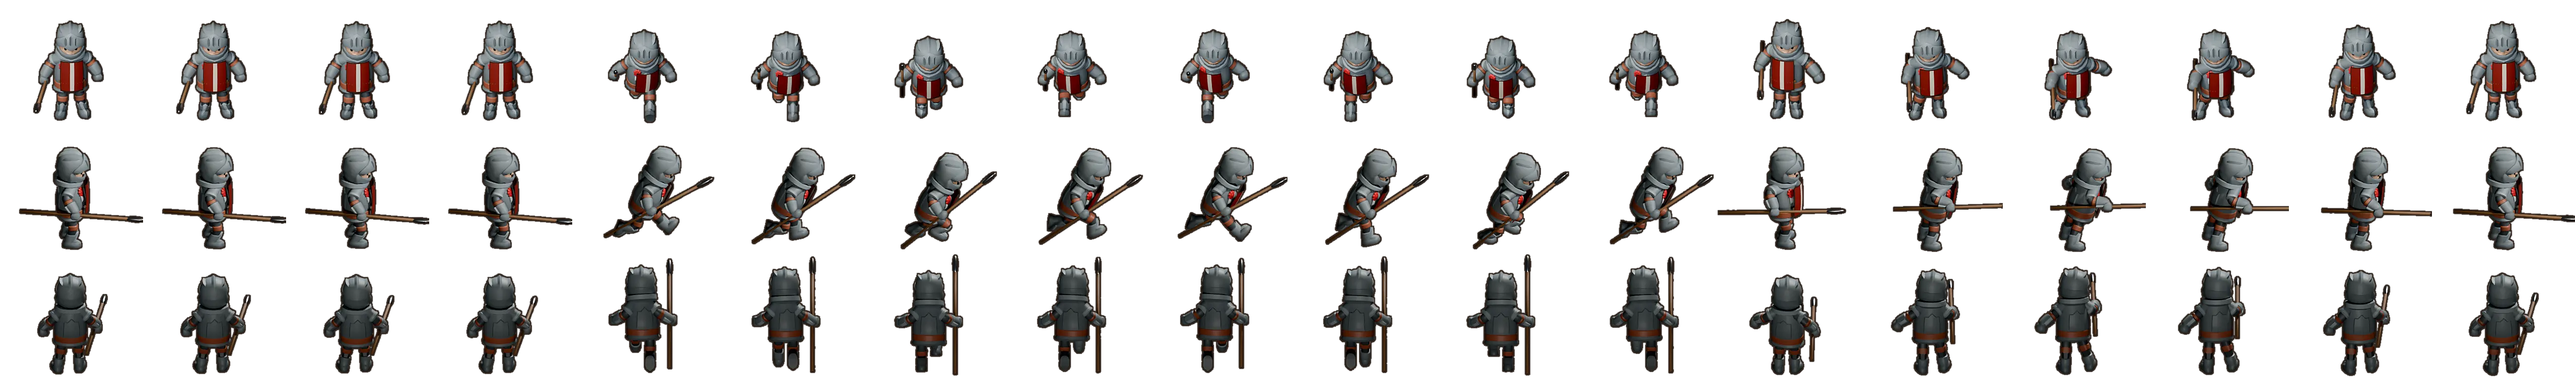
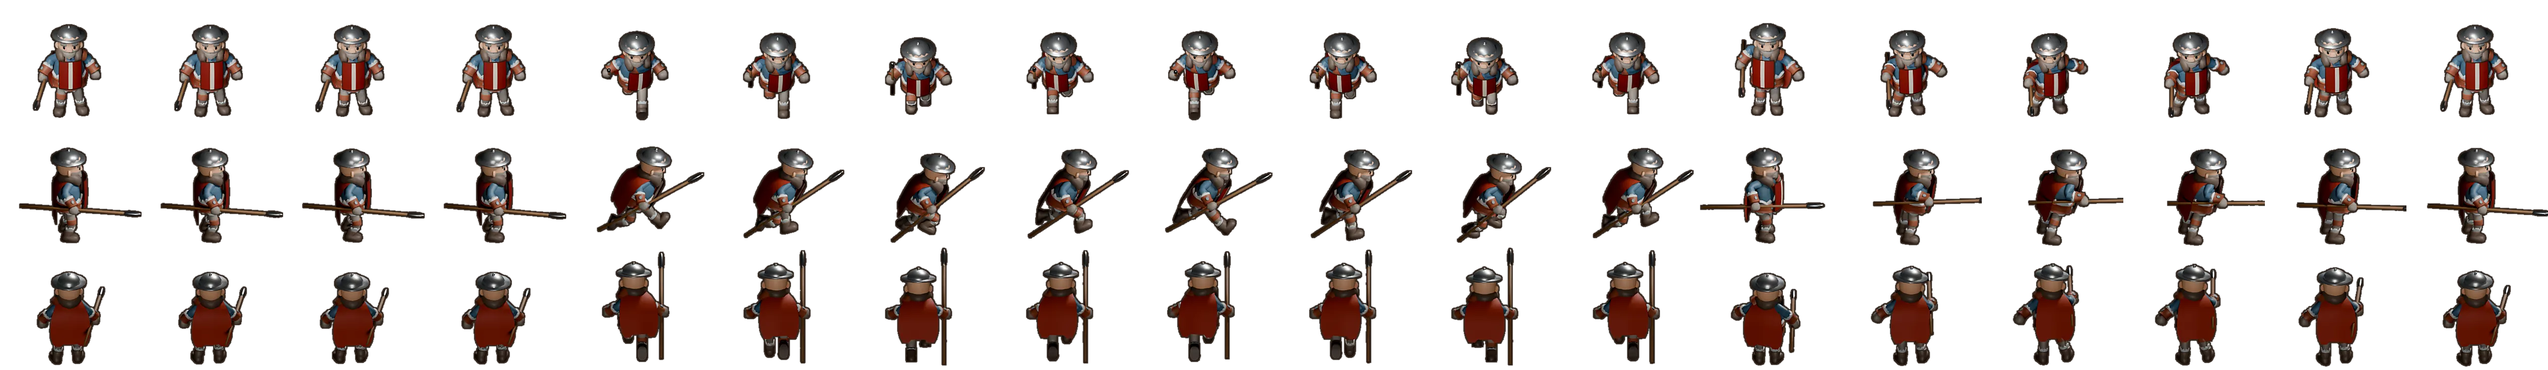
Vojnici odreda: istorijska imena i drugačiji izgled od junaka; manji junak u boju; osvežavanje slika posle izmena
Claude-Session: https://claude.ai/code/session_01MURPTWpuhHHLnsSrrAwjre

diff --git a/index.html b/index.html
@@ -1417,11 +1417,12 @@ HOPT.vuk={tunic:'#e8e0d0',vest:'#8a2a22',trim:'#d9a441',pants:'#3a3a48',boots:'#
 HOPT.mila={tunic:'#f0e8d6',vest:'#2a3a2a',trim:'#c9a24a',pants:'#2a2020',boots:'#5a1a1a',dress:'#f3ead8',apron:'#9a2a22',hat:'marama',hatc:'#efe6d2',weapon:'kandilo',sleeve:'#f0e8d6',skin:'#ecc39e',hair:'#4a2c18'};
 const HDRAW={kovac};for(const k in HOPT)HDRAW[k]=(g,b,lg,t,m)=>figure(g,b,lg,t,m,HOPT[k]);
 /* ---------- 3D likovi (KayKit CC0, Kay Lousberg; prerenderovano u Blenderu) ---------- */
+const A3V="1795539468";
 const H3D={"strahinja": {"f": "strahinja", "w": 301, "h": 315, "cx": 125, "fy": 306, "ph": 240}, "dusan": {"f": "dusan", "w": 296, "h": 315, "cx": 120, "fy": 306, "ph": 245}, "milos": {"f": "milos", "w": 304, "h": 315, "cx": 128, "fy": 306, "ph": 251}};
-const A3D={"stit": {"f": "stit", "w": 249, "h": 260, "cx": 105, "fy": 251, "ph": 197}, "koplja": {"f": "koplja", "w": 284, "h": 252, "cx": 140, "fy": 239, "ph": 197}, "strel": {"f": "strel", "w": 252, "h": 231, "cx": 110, "fy": 219, "ph": 197}};
+const A3D={"stit": {"f": "stit", "w": 233, "h": 252, "cx": 89, "fy": 243, "ph": 182}, "koplja": {"f": "koplja", "w": 281, "h": 245, "cx": 137, "fy": 232, "ph": 182}, "strel": {"f": "strel", "w": 245, "h": 219, "cx": 107, "fy": 207, "ph": 190}};
 const F3D={"osm_pesak": {"f": "osm_pesak", "w": 182, "h": 198, "cx": 70, "fy": 190, "ph": 147}, "biz_pesak": {"f": "biz_pesak", "w": 182, "h": 198, "cx": 70, "fy": 190, "ph": 158}, "osm_koplje": {"f": "osm_koplje", "w": 220, "h": 193, "cx": 108, "fy": 182, "ph": 147}, "osm_strel": {"f": "osm_strel", "w": 192, "h": 176, "cx": 84, "fy": 166, "ph": 147}, "osm_teski": {"f": "osm_teski", "w": 172, "h": 182, "cx": 73, "fy": 160, "ph": 145}, "dah_pesak": {"f": "dah_pesak", "w": 182, "h": 198, "cx": 70, "fy": 190, "ph": 145}, "dah_koplje": {"f": "dah_koplje", "w": 220, "h": 193, "cx": 108, "fy": 182, "ph": 145}, "dah_strel": {"f": "dah_strel", "w": 192, "h": 170, "cx": 84, "fy": 160, "ph": 145}, "dah_teski": {"f": "dah_teski", "w": 172, "h": 173, "cx": 73, "fy": 151, "ph": 126}, "krd_pesak": {"f": "krd_pesak", "w": 182, "h": 198, "cx": 70, "fy": 190, "ph": 145}, "krd_koplje": {"f": "krd_koplje", "w": 220, "h": 193, "cx": 108, "fy": 182, "ph": 145}, "krd_strel": {"f": "krd_strel", "w": 192, "h": 170, "cx": 84, "fy": 160, "ph": 145}, "krd_teski": {"f": "krd_teski", "w": 172, "h": 173, "cx": 73, "fy": 151, "ph": 126}, "biz_koplje": {"f": "biz_koplje", "w": 220, "h": 193, "cx": 108, "fy": 182, "ph": 158}, "biz_strel": {"f": "biz_strel", "w": 192, "h": 185, "cx": 84, "fy": 174, "ph": 158}, "biz_teski": {"f": "biz_teski", "w": 172, "h": 174, "cx": 73, "fy": 153, "ph": 139}, "ugr_pesak": {"f": "ugr_pesak", "w": 182, "h": 198, "cx": 70, "fy": 190, "ph": 153}, "ugr_koplje": {"f": "ugr_koplje", "w": 220, "h": 193, "cx": 108, "fy": 182, "ph": 153}, "ugr_strel": {"f": "ugr_strel", "w": 192, "h": 180, "cx": 84, "fy": 169, "ph": 153}, "ugr_teski": {"f": "ugr_teski", "w": 172, "h": 173, "cx": 73, "fy": 152, "ph": 134}, "bug_pesak": {"f": "bug_pesak", "w": 182, "h": 198, "cx": 70, "fy": 190, "ph": 148}, "bug_koplje": {"f": "bug_koplje", "w": 220, "h": 193, "cx": 108, "fy": 182, "ph": 148}, "bug_strel": {"f": "bug_strel", "w": 192, "h": 172, "cx": 84, "fy": 162, "ph": 148}, "bug_teski": {"f": "bug_teski", "w": 172, "h": 173, "cx": 73, "fy": 151, "ph": 130}};
 const H3D_COL={i:[0,4],m:[4,8],a:[12,6]},H3D_ROW={f:0,s:1,b:2};
-function d3get(o){if(!o)return null;if(!o.img){o.img=new Image();o.img.onload=()=>{o.ok=1};o.img.src='a3d/'+o.f+'.webp'}return o.ok?o:null}
+function d3get(o){if(!o)return null;if(!o.img){o.img=new Image();o.img.onload=()=>{o.ok=1};o.img.src='a3d/'+o.f+'.webp?v='+A3V}return o.ok?o:null}
 function d3pre(){for(const T of[H3D,A3D])for(const k in T)d3get(T[k])}
 function d3preFac(f){if(!f)return;f={tat:'bug',srb:'ugr'}[f]||f;for(const r of['pesak','koplje','strel','teski'])d3get(F3D[f+'_'+r])}
 setTimeout(()=>{d3pre();const fs=[...new Set(Object.values(typeof LFOE!=='undefined'?LFOE:{}).map(x=>x&&x[0]))];
@@ -1435,7 +1436,7 @@ function d3blit(g,o,st,f,vw,face,k){const col=H3D_COL[st][0]+f,row=H3D_ROW[vw];g
  const vw=act&&act.dir?viewOf(act.dir[0],act.dir[1]):act?'s':'f';if(vw!=='s')face=1;else if(act&&act.a>=0&&act.dir&&Math.abs(act.dir[0])>.05)face=act.dir[0]>0?1:-1;
  g.save();g.translate(x,y);g.globalAlpha*=alpha;g.fillStyle='rgba(0,0,0,.45)';ell(g,0,0,(s<1.4?12:10)*s,(s<1.4?4:3.4)*s);g.fill();
  g.scale(s,s);if(act&&act.hurt>0)g.filter='brightness(1.8) saturate(.6)';
- d3blit(g,o,st,f,vw,face,(s<1.4?48:42)/o.ph);g.restore()}}
+ d3blit(g,o,st,f,vw,face,(s<1.4?44:42)/o.ph);g.restore()}}
 const FROLE={senka:'pesak',vampir:'pesak',barjaktar:'pesak',ratnik:'pesak',lovac:'koplje',vrac:'strel',gutac:'teski',vitez:'teski'};
 function foe3d(e){if(e.ally||save.h3d===0||!e.look)return null;if(e._f3!==undefined)return e._f3?d3get(e._f3):null;
  let m=/^R_([a-z]+)_([a-z]+)$/.exec(e.look),fac,type=e.type;if(m){fac=m[1];type=m[2]}else{m=/^(osm|biz|ugr|bug|dah|krd)\d/.exec(e.look);if(m)fac=m[1]}
@@ -2949,7 +2950,7 @@ function unitStats(id){const u=UNITS.find(x=>x.id===id),l=ensureArmy()[id].lvl,f
 const unitUpCost=id=>{const l=ensureArmy()[id].lvl;return{zar:nice(70*Math.pow(1.17,l)),gvozdje:nice(3+l*1.6)}};
 function armyPick(c){const A=ensureArmy(),n=armySlots(c),left={};UNITS.forEach(u=>left[u.id]=A[u.id].n);const order=['stit','koplja','strel','koplja','strel','stit','koplja','strel'];const out=[];
  for(let k=0;out.length<n&&k<40;k++){const id=order[k%order.length];if(left[id]>0){left[id]--;out.push(id)}else if(!UNITS.some(u=>left[u.id]>0))break}return out}
-const UNAMES=['Bojan','Nikola','Lazar','Dušan','Uroš','Stevan','Milan','Đorđe','Petar','Jovan','Mirko','Milovan','Sima','Gavrilo','Radovan','Obrad','Novica','Dragiša','Tanasko','Milutin','Vasa','Jakov','Luka','Toma','Ilija','Bogosav','Despot','Raško'];
+const UNAMES=['Milan Toplica','Ivan Kosančić','Relja Krilatica','Pavle Orlović','Jug Bogdan','Boško Jugović','Stefan Musić','Banović Sekula','Vojvoda Momčilo','Dmitar Jakšić','Miloš Pocerac','Jakov Nenadović','Luka Lazarević','Stanoje Glavaš','Hajduk Stanko','Vujica Vulićević','Mladen Milovanović','Petar Dobrnjac','Janko Katić','Stevan Sinđelić','Vasa Čarapić','Đorđe Ćurčija','Kara-Marko','Toma Vučić','Sima Marković','Milenko Stojković','Hajduk Ivko','Vojvoda Prijezda','Novak Debelić','Radič Postupović'];
 function armyLabel(c){const p=armyPick(c);if(!p.length)return'';const cnt={};p.forEach(i=>cnt[i]=(cnt[i]||0)+1);const nm={stit:['štitonoša','štitonoše','štitonoša'],koplja:['kopljanik','kopljanika','kopljanika'],strel:['strelac','strelca','strelaca']};
  return Object.entries(cnt).map(([i,n])=>`${n} ${n===1?nm[i][0]:n<5?nm[i][1]:nm[i][2]}`).join(', ').replace(/, ([^,]*)$/,' i $1')}
 function unitOpt(id,col){const b={tunic:'#8a8274',pants:'#3a3028',boots:'#1e1612',hat:'helm',sleeve:'#8a8274',must:'#4a3020',nolantern:1};
@@ -2959,6 +2960,8 @@ function unitOpt(id,col){const b={tunic:'#8a8274',pants:'#3a3028',boots:'#1e1612
 // koplje kao oružje
 {const _w2=weap;weap=function(g,w,o,x,y,ang,t,far){if(w!=='koplje')return _w2(g,w,o,x,y,ang,t,far);g.save();g.translate(x,y);g.rotate(ang);
  g.fillStyle='#5a3a1e';g.fillRect(-.7,-26,1.4,34);g.fillStyle='#c8ced4';g.beginPath();g.moveTo(0,-32);g.lineTo(1.6,-26);g.lineTo(-1.6,-26);g.closePath();g.fill();g.fillStyle='#8a1a1a';g.fillRect(-1.2,-25.6,2.4,1.4);g.restore()}}
+
+{const _ea=ensureArmy;ensureArmy=function(){const A=_ea.apply(this,arguments);if(!save.namesV2){const used=new Set();let k=0;for(const u of UNITS){const a=A[u.id];a.names=(a.names||[]).map(n=>{if(UNAMES.includes(n)&&!used.has(n)){used.add(n);return n}while(k<UNAMES.length&&used.has(UNAMES[k]))k++;const nn=UNAMES[k++]||n;used.add(nn);return nn})}save.namesV2=1;try{persist()}catch(e){}}return A}}
 
 /* ---------- okupatorske vojske po dobima ---------- */
 const ERA_FOES=[
@@ -3246,7 +3249,7 @@ function fxVig(){if(!G||!(G.vig>0))return;const c=ctx;c.save();c.setTransform(1,
  g.addColorStop(0,'rgba(160,0,0,0)');g.addColorStop(1,`rgba(170,10,0,${(G.vig/.35*.45).toFixed(3)})`);c.fillStyle=g;c.fillRect(0,0,W,H);c.restore()}
 /* ---------- pravi zvuci (Kenney CC0) i muzika (originalna, generisana) ---------- */
 const SNDF=['ehit1','ehit2','hurt','kill','build','shield','bell','swing','coin','draw','click','bow'];const SB={};let sndLoading=false;
-function sndLoad(){const a=AC;if(!a||sndLoading)return;sndLoading=true;for(const n of SNDF.concat(['selo','boj']))fetch('snd/'+n+'.mp3').then(r=>r.arrayBuffer()).then(b=>a.decodeAudioData(b)).then(buf=>{SB[n]=buf;if(n==='selo'||n==='boj')musTick()}).catch(()=>{})}
+function sndLoad(){const a=AC;if(!a||sndLoading)return;sndLoading=true;for(const n of SNDF.concat(['selo','boj']))fetch('snd/'+n+'.mp3?v=2').then(r=>r.arrayBuffer()).then(b=>a.decodeAudioData(b)).then(buf=>{SB[n]=buf;if(n==='selo'||n==='boj')musTick()}).catch(()=>{})}
 function play(n,v=.5,rate=1){const a=AC;if(!a||save.muted||window.__quiet||!SB[n])return false;const s=a.createBufferSource(),g=a.createGain();s.buffer=SB[n];s.playbackRate.value=rate;g.gain.value=v;s.connect(g).connect(a.destination);s.start();return true}
 {const _ac=ac;ac=function(){const a=_ac();if(a)sndLoad();return a}}
 {const S=sfx,w=(k,fn)=>{const o=S[k];S[k]=function(){if(!fn())return o&&o.apply(this,arguments)}};
@@ -3268,7 +3271,7 @@ function toggleMus(){save.music=save.music===0?1:0;persist();syncMus();musTick()
 function syncMus(){const b=document.getElementById('musBtn');if(b)b.textContent=save.music===0?'Muzika: isključena':'Muzika: uključena'}
 setTimeout(()=>{const sb=document.getElementById('sndBtn');if(sb&&!document.getElementById('musBtn')){const b=document.createElement('button');b.id='musBtn';b.className=sb.className;b.onclick=toggleMus;sb.after(b);syncMus()}},0);
 /* ---------- 3D zgrade, drveće i kamenje (KayKit Medieval Hexagon, CC0) ---------- */
-const PROPS={"hall":[0,0,216,251,105.0,194.8],"tower":[218,0,127,236,63.0,198.6],"quarry":[347,0,213,204,129.5,123.3],"mine":[562,0,201,190,98.5,131.6],"home_b":[765,0,124,182,58.0,142.7],"trees_m":[891,0,208,175,112.0,127.9],"church":[1101,0,148,172,69.5,133.5],"trees_s":[1251,0,154,157,74.0,119.8],"ruin":[1407,0,174,154,92.0,107.7],"home_a":[0,253,117,138,61.0,107.7],"smith":[119,253,150,136,73.5,101.7],"tree_b":[271,253,79,119,39.5,112.0],"tree_a":[352,253,64,114,32.0,106.6],"well":[418,253,87,96,44.5,82.7],"rock_c":[507,253,83,87,41.5,58.4],"tent":[592,253,79,76,39.5,54.7],"rock_d":[673,253,76,73,41.0,49.2],"rock_b":[751,253,76,68,40.5,43.5],"rock_a":[829,253,81,56,40.5,29.3],"crate":[912,253,33,39,16.5,29.0],"rack":[947,253,28,36,14.0,28.8],"barrel":[977,253,23,29,12.0,23.5],"sack":[1002,253,19,16,9.5,11.4]};const PIMG=new Image();let PROK=0;PIMG.onload=()=>{PROK=1;if(typeof fortDirty!=='undefined')fortDirty=1};PIMG.src='a3d/props.webp';
+const PROPS={"hall":[0,0,216,251,105.0,194.8],"tower":[218,0,127,236,63.0,198.6],"quarry":[347,0,213,204,129.5,123.3],"mine":[562,0,201,190,98.5,131.6],"home_b":[765,0,124,182,58.0,142.7],"trees_m":[891,0,208,175,112.0,127.9],"church":[1101,0,148,172,69.5,133.5],"trees_s":[1251,0,154,157,74.0,119.8],"ruin":[1407,0,174,154,92.0,107.7],"home_a":[0,253,117,138,61.0,107.7],"smith":[119,253,150,136,73.5,101.7],"tree_b":[271,253,79,119,39.5,112.0],"tree_a":[352,253,64,114,32.0,106.6],"well":[418,253,87,96,44.5,82.7],"rock_c":[507,253,83,87,41.5,58.4],"tent":[592,253,79,76,39.5,54.7],"rock_d":[673,253,76,73,41.0,49.2],"rock_b":[751,253,76,68,40.5,43.5],"rock_a":[829,253,81,56,40.5,29.3],"crate":[912,253,33,39,16.5,29.0],"rack":[947,253,28,36,14.0,28.8],"barrel":[977,253,23,29,12.0,23.5],"sack":[1002,253,19,16,9.5,11.4]};const PIMG=new Image();let PROK=0;PIMG.onload=()=>{PROK=1;if(typeof fortDirty!=='undefined')fortDirty=1};PIMG.src='a3d/props.webp?v=2';
 function pdraw(g,n,x,y,wpx,flip){const p=PROPS[n];if(!p||!PROK)return false;const k=wpx/p[2];g.save();g.translate(x,y);if(flip)g.scale(-1,1);g.imageSmoothingQuality='high';g.drawImage(PIMG,p[0],p[1],p[2],p[3],-p[4]*k,-p[5]*k,p[2]*k,p[3]*k);g.restore();return true}
 const phash=(x,y)=>Math.abs(Math.floor(x*13.7+y*7.3))%997;
 function pshadow(g,x,y,rx,ry){g.fillStyle='rgba(0,0,0,.32)';ell(g,x,y,rx,ry);g.fill()}
